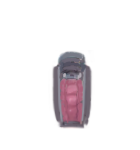
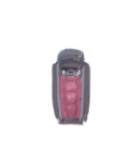
refactor: 调整网格材质，微调颜色

Changed region(s): [[0.3429, 0.32, 0.6571, 0.88], [0.4286, 0.6667, 0.4571, 0.72], [0.5143, 0.72, 0.5429, 0.7467]]

diff --git a/packages/mod/src/components/衣服和装饰/动物身体/生化人体.js b/packages/mod/src/components/衣服和装饰/动物身体/生化人体.js
@@ -111,7 +111,7 @@ const asset = {
     Priority: 7,
     Gender: "F",
     Expose: ["ItemVulva", "ItemVulvaPiercings", "ItemButt"],
-    DefaultColor: ["Default", "Default", "#696776", "#988686", "Default"],
+    DefaultColor: ["Default", "Default", "#696776", "#7E5F69", "#E3BFBF"],
     PoseMapping: {
         Hogtied: PoseType.HIDE,
         AllFours: PoseType.HIDE,
@@ -153,7 +153,6 @@ const asset = {
             Name: "腹中脑",
             Top: 400,
             Left: 180,
-            Opacity: 0.7,
         },
         {
             Name: "上身遮罩",
@@ -185,6 +184,7 @@ const asset = {
         },
         {
             Name: "网格",
+            ParentGroup: "BodyUpper",
         },
     ],
 };
